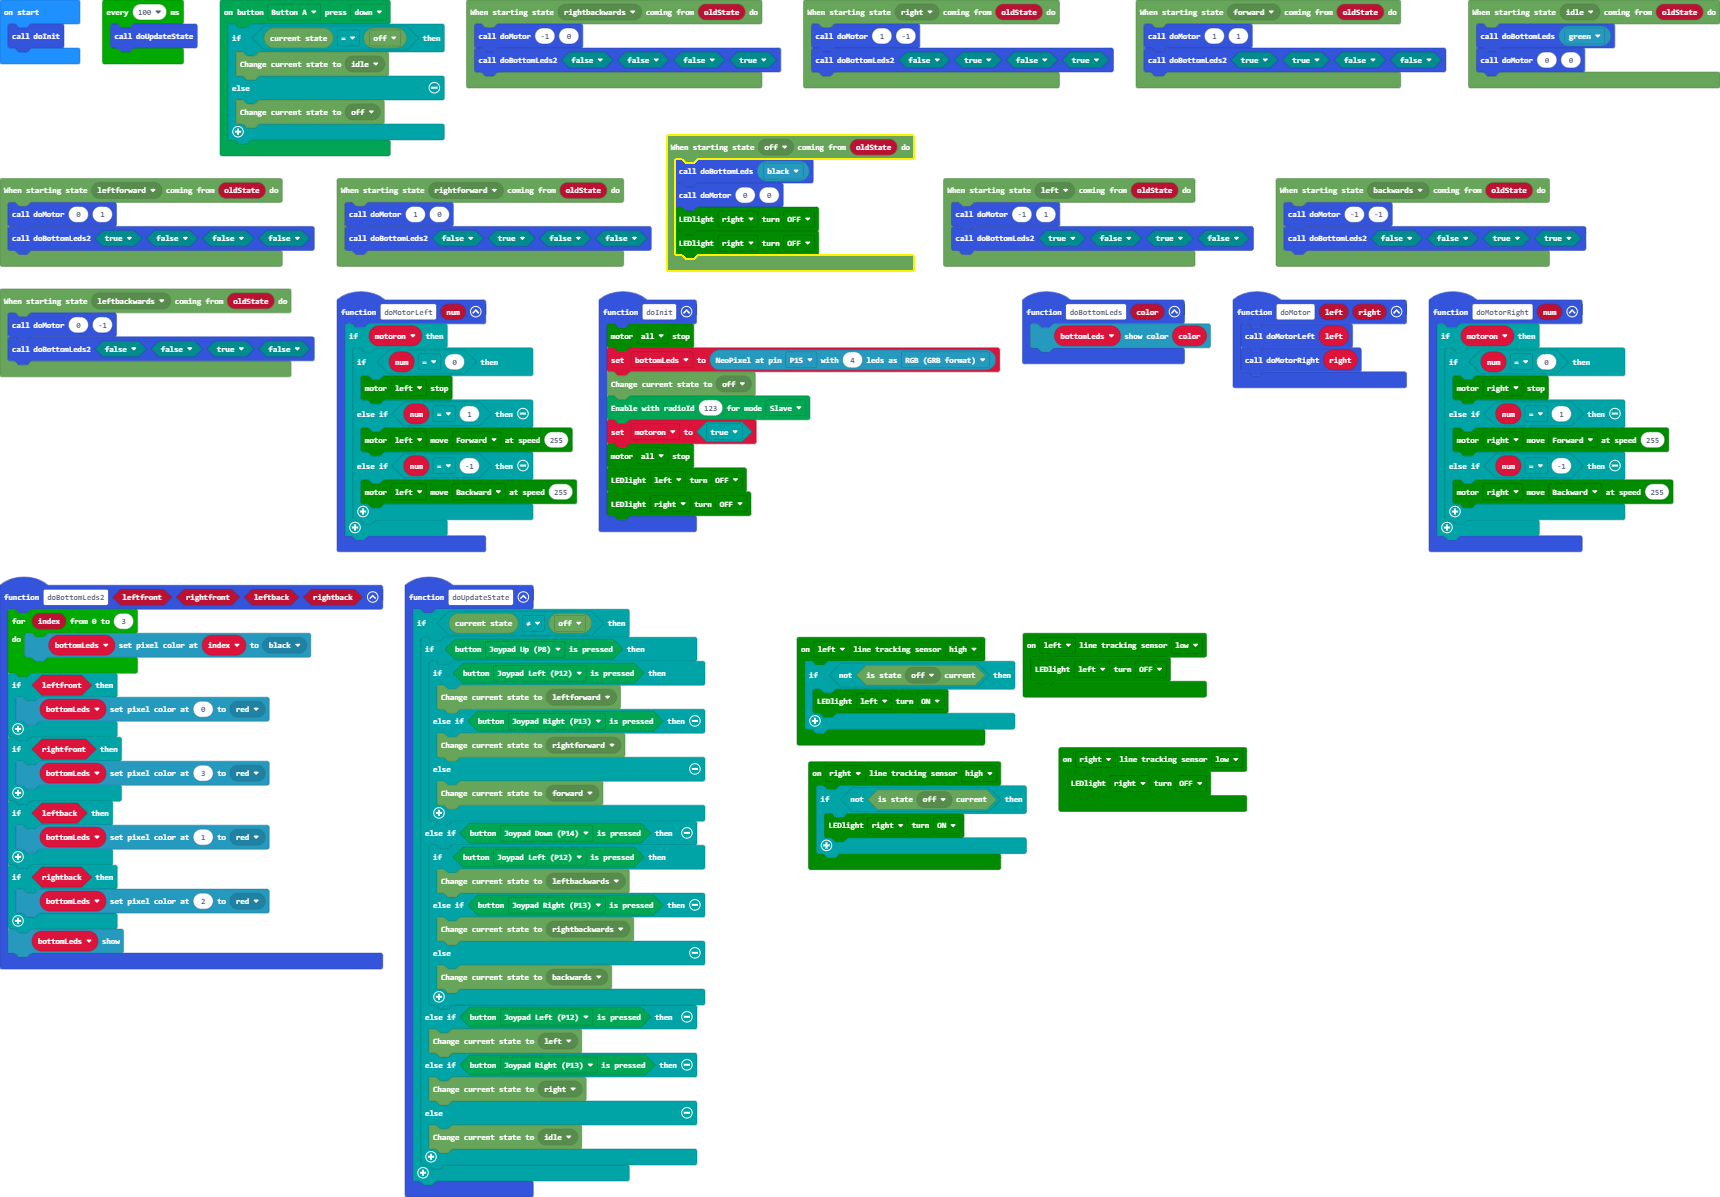
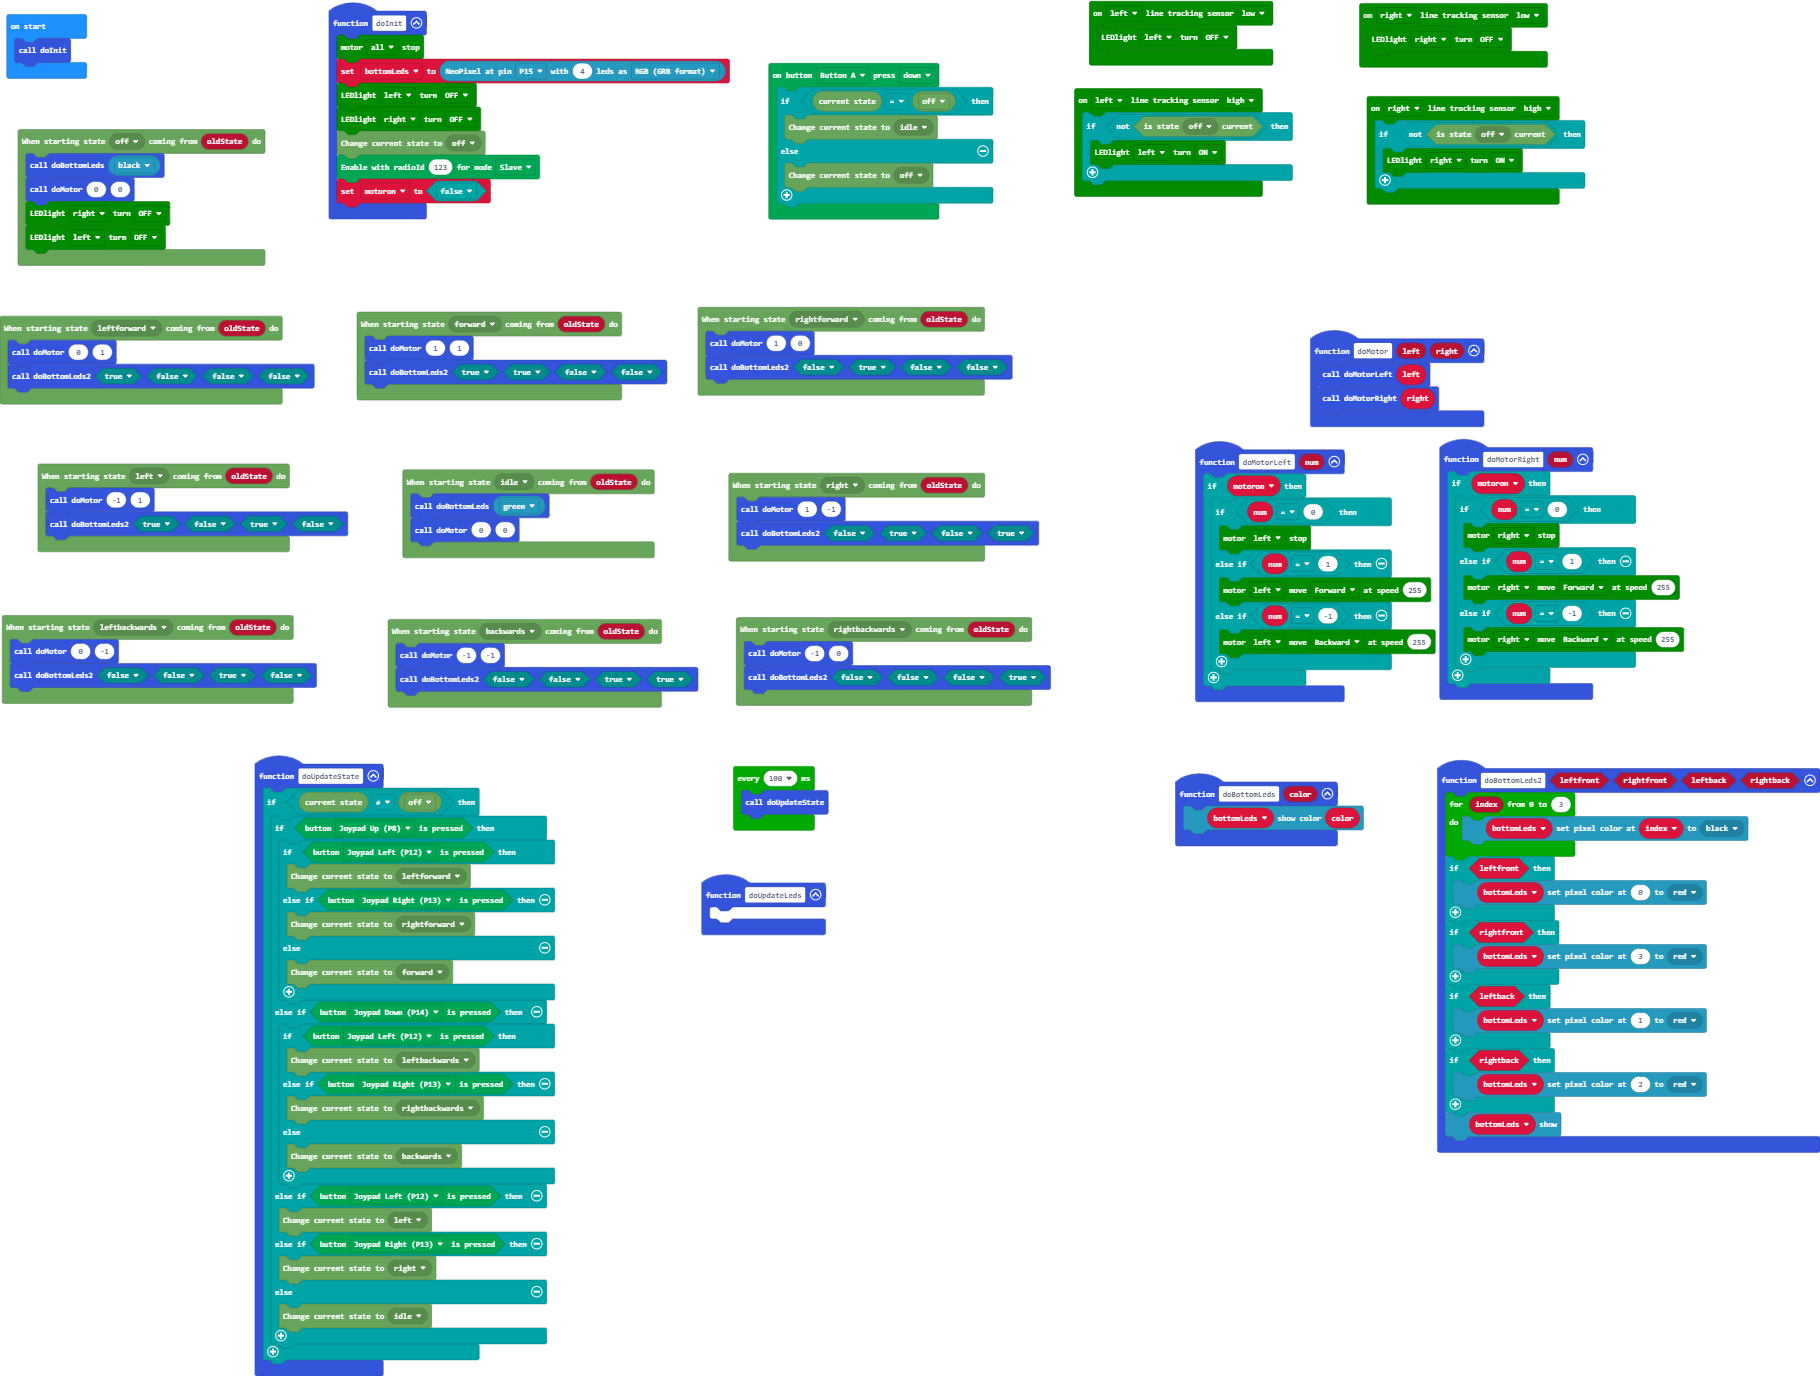
Update main.blocks, main.ts

diff --git a/main.ts b/main.ts
@@ -39,12 +39,11 @@ function doMotorLeft (num: number) {
 function doInit () {
     maqueen.motorStop(maqueen.Motors.All)
     bottomLeds = neopixel.create(DigitalPin.P15, 4, NeoPixelMode.RGB)
-    StateMachine.setState(StateKind.off)
-    RadioGameController.enable(123, RadioGameController.Mode.SLAVE)
-    motoron = true
-    maqueen.motorStop(maqueen.Motors.All)
     maqueen.writeLED(maqueen.LED.LEDLeft, maqueen.LEDswitch.turnOff)
     maqueen.writeLED(maqueen.LED.LEDRight, maqueen.LEDswitch.turnOff)
+    StateMachine.setState(StateKind.off)
+    RadioGameController.enable(123, RadioGameController.Mode.SLAVE)
+    motoron = false
 }
 StateMachine.onStateInit(StateKind.forward, function (oldState) {
     doMotor(1, 1)
@@ -93,6 +92,9 @@ StateMachine.onStateInit(StateKind.rightforward, function (oldState) {
     doMotor(1, 0)
     doBottomLeds2(false, true, false, false)
 })
+function doUpdateLeds () {
+	
+}
 maqueen.ltEvent(maqueen.Patrol1.PatrolLeft, maqueen.Voltage.Low, function () {
     maqueen.writeLED(maqueen.LED.LEDLeft, maqueen.LEDswitch.turnOff)
 })
@@ -100,7 +102,7 @@ StateMachine.onStateInit(StateKind.off, function (oldState) {
     doBottomLeds(neopixel.colors(NeoPixelColors.Black))
     doMotor(0, 0)
     maqueen.writeLED(maqueen.LED.LEDRight, maqueen.LEDswitch.turnOff)
-    maqueen.writeLED(maqueen.LED.LEDRight, maqueen.LEDswitch.turnOff)
+    maqueen.writeLED(maqueen.LED.LEDLeft, maqueen.LEDswitch.turnOff)
 })
 StateMachine.onStateInit(StateKind.left, function (oldState) {
     doMotor(-1, 1)
